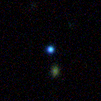
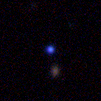
New DES hdr keywords used, scales still being investigated.

Changed region(s): [[0.505, 0.6535, 0.5941, 0.7426], [0.4455, 0.4455, 0.5347, 0.5347]]

diff --git a/humvi/io.py b/humvi/io.py
@@ -97,7 +97,7 @@ class channel:
         return
         
     def get_origin(self):
-        if self.hdr.has_key('TELESCOP'):  
+        if 'TELESCOP' in self.hdr:  
             if self.hdr['TELESCOP'] == 'CFHT 3.6m':
                 self.origin = 'CFHT'
             elif self.hdr['TELESCOP'] == 'ESO-VLT-U0':
@@ -105,44 +105,46 @@ class channel:
                 self.origin = "KIDS"
             else:
                 self.origin = self.hdr['TELESCOP']
-        elif self.hdr.has_key('ORIGIN'):  
+        elif 'ORIGIN' in self.hdr:  
             if self.hdr['ORIGIN'] == 'CFHT':
                 self.origin = 'CFHT'
+            elif self.hdr['ORIGIN'] == 'DES':
+                self.origin = 'DES'
             else:
                 self.origin = self.hdr['ORIGIN']
-        elif self.hdr.has_key('PSCAMERA'):
+        elif 'PSCAMERA' in self.hdr:
             self.origin = 'PS1'
-        elif self.hdr.has_key('FID_ZP'):
+        elif 'FID_ZP' in self.hdr:
             self.origin = 'DES'
-        elif self.hdr.has_key('PROV'):
+        elif 'PROV' in self.hdr:
             self.origin = 'VICS82'
         else:
-            raise "Image is of unknown origin."
+            self.origin = 'UNKNOWN'
         return
 
     def get_zeropoint(self):
         if self.origin == 'CFHT':
-            if self.hdr.has_key('MZP_AB'):
+            if 'MZP_AB' in self.hdr:
                 self.zpt = self.hdr['MZP_AB']
-            elif self.hdr.has_key('MAGZP'):
+            elif 'MAGZP' in self.hdr:
                 self.zpt = self.hdr['MAGZP']
-            # elif self.hdr.has_key('PHOT_C'):
+            # elif 'PHOT_C' in self.hdr:
             #     self.zpt = self.hdr['PHOT_C']
             else:
                 self.zpt = 30.0    
         elif self.origin == 'PS1':
             self.zpt = self.hdr['HIERARCH FPA.ZP']
         elif self.origin == 'DES':
-            self.zpt = -self.hdr['FID_ZP']
+            self.zpt = self.hdr['MZP_AB']
         elif self.origin == 'VICS82':
-            if self.hdr.has_key('MZP_AB'):
+            if 'MZP_AB' in self.hdr:
                 self.zpt = self.hdr['MZP_AB']
             else:
                 self.zpt = 30.0
         elif self.origin == 'KIDS':
             # KiDS coadds are calibrated to ZPT=0.
             self.zpt = 0.0
-        else:
+        else: # UNKNOWN
             self.zpt = 30.0
         return
 
@@ -164,7 +166,7 @@ class channel:
         elif self.origin == 'KIDS':
             # self.exptime = self.hdr['EXPTIME']
             self.exptime = 1.0    
-        else:
+        else: #UNKNOWN
             # Use 1.0 as default to ensure the program doesn't crash.
             self.exptime = 1.0
         return

diff --git a/compose.py b/compose.py
@@ -67,8 +67,8 @@ def compose(argv):
                 examples/PS1-test_i.fits \
                 examples/PS1-test_r.fits
 
-        DES (Very experimental. No images checked in.):
-          compose.py -v -s 2.0,1.5,2.5 -z 0.0 -p 2.0,0.04 -m -1.0 \
+        DES (Experimental. No images checked in.):
+          compose.py -v -s 1.0,1.2,2.5 -z 0.0 -p 1.0,0.03 -m -1.0 \
              -o examples/DES-test_gri.png \
                 examples/DES-test_i.fits \       
                 examples/DES-test_r.fits \
